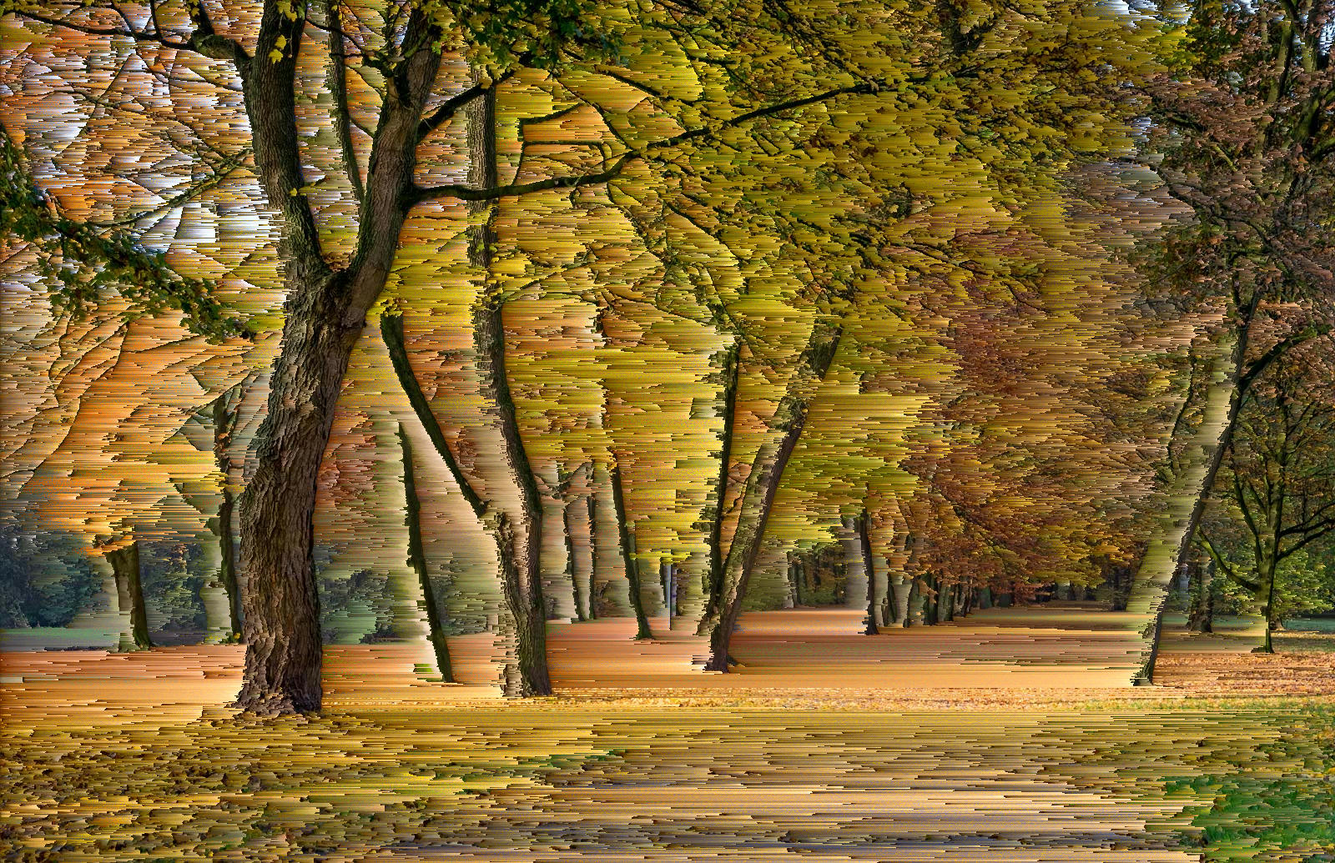
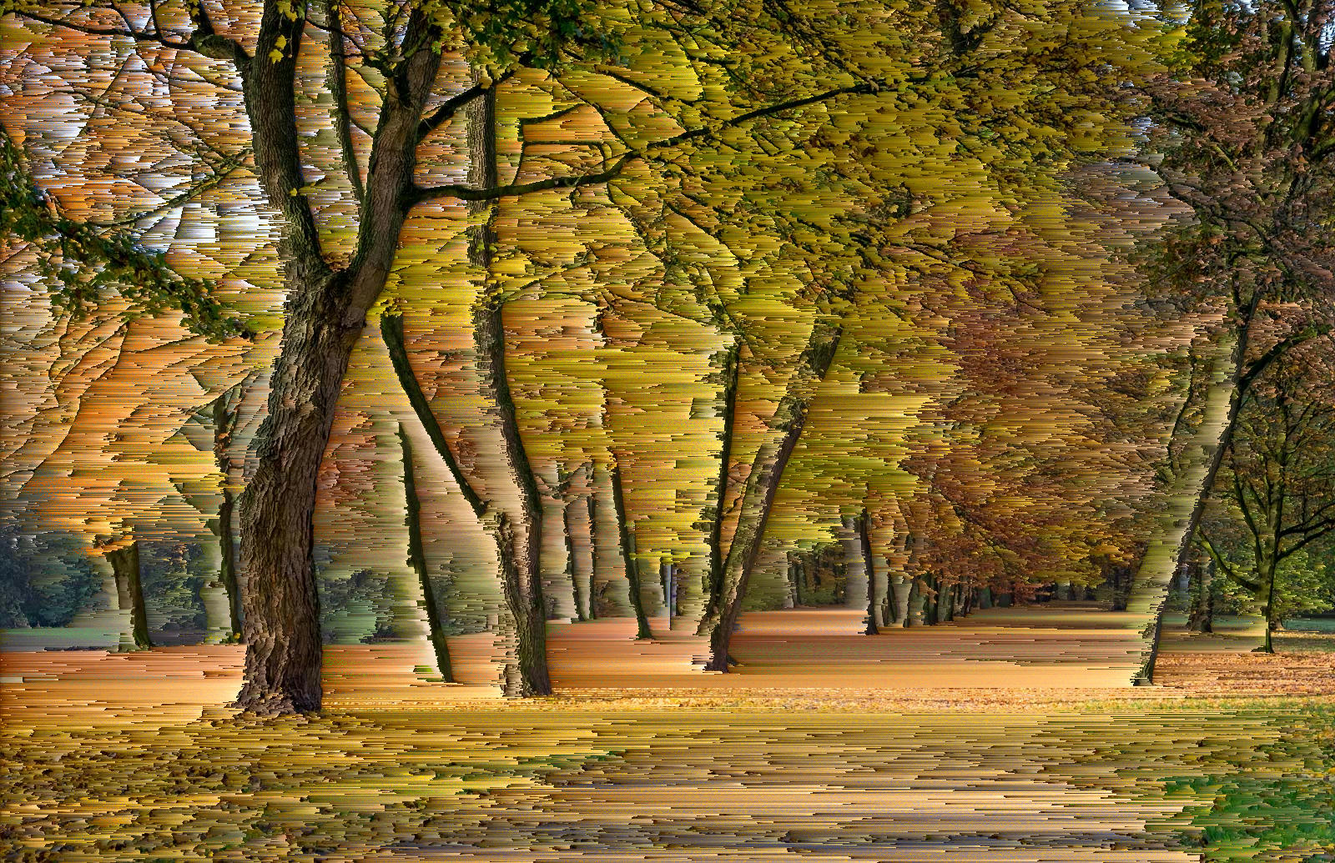
done

diff --git a/src/main.rs b/src/main.rs
@@ -193,7 +193,7 @@ fn run_classic(
                 if start == -1 {
                     start = vx as i32;
                 }
-            } else {
+            } else if (b < threshold && !reverse_threshold) || (b > threshold && reverse_threshold) {
                 if start != -1 {
                     let stop = vx as i32;
                     let mut interval: SortableInterval = SortableInterval {
